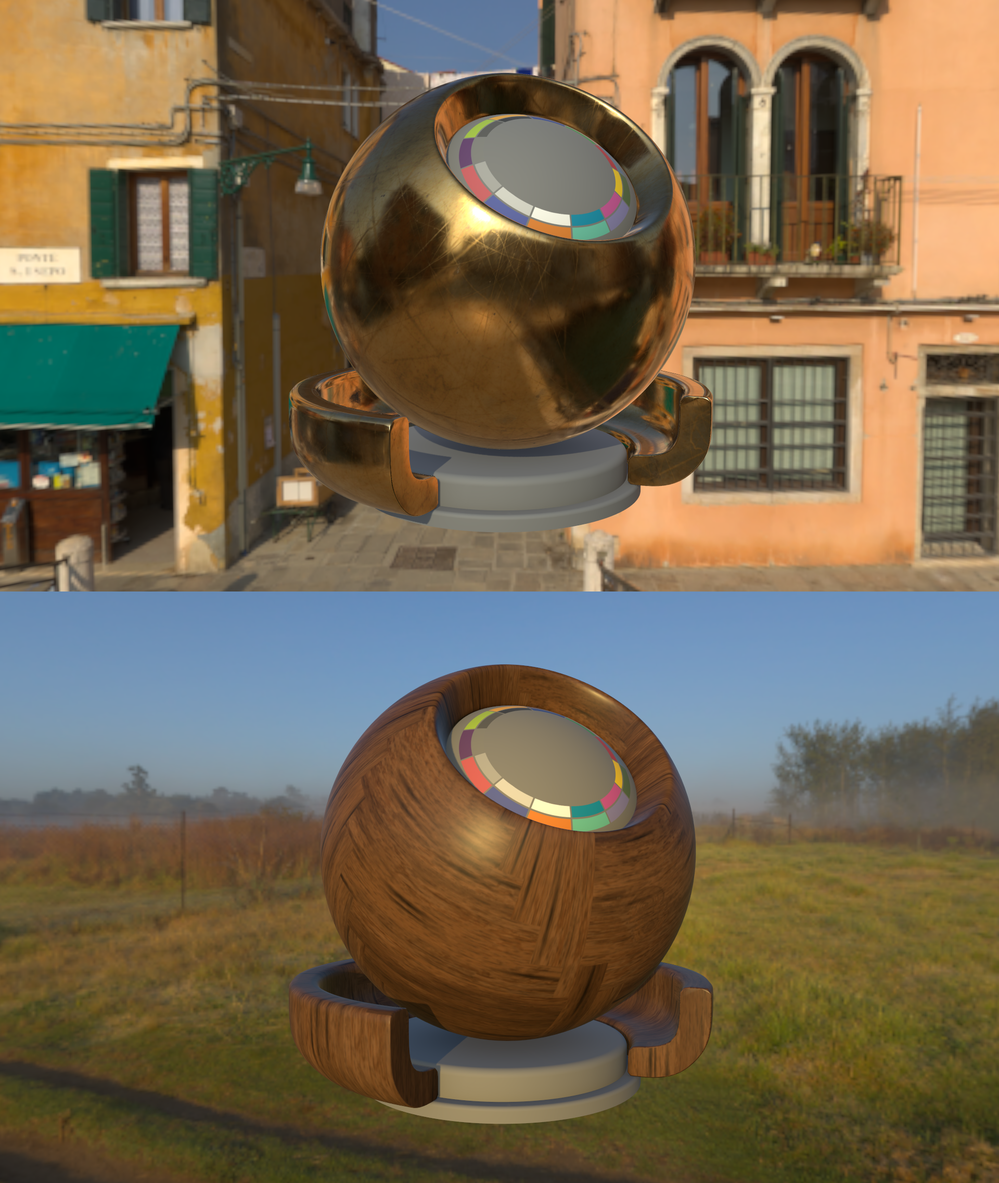
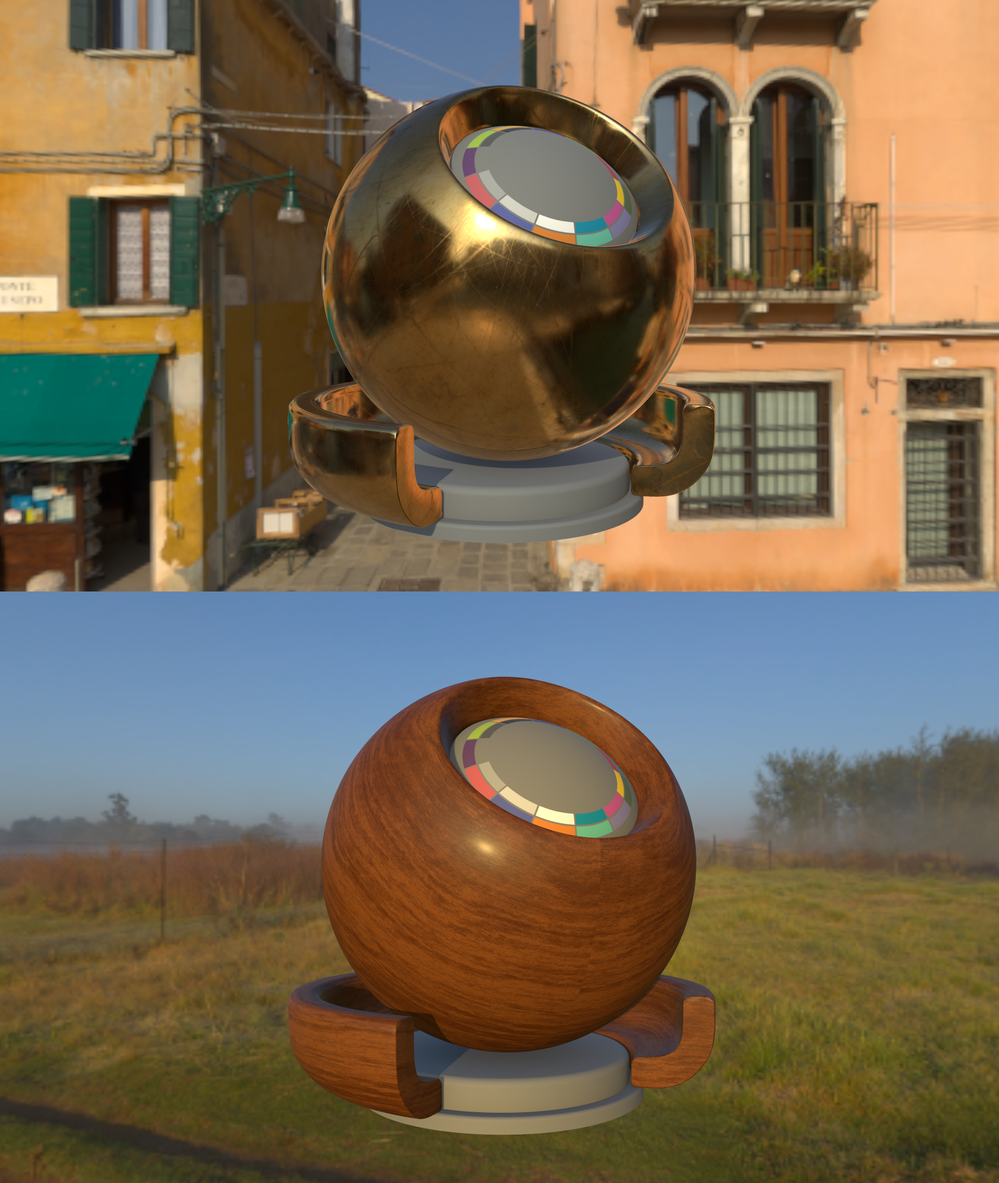
Update tiled wood example
This changelist updates the tiled wood example material, replacing its tiled textures and assigning specular anisotropy and clearcoat properties.

diff --git a/source/MaterialXView/Viewer.cpp b/source/MaterialXView/Viewer.cpp
@@ -164,6 +164,7 @@ Viewer::Viewer(const std::string& materialFilename,
     _viewAngle(45.0f),
     _nearDist(0.05f),
     _farDist(5000.0f),
+    _cameraYaw(0.0f),
     _modelZoom(1.0f),
     _userZoom(1.0f),
     _userTranslationActive(false),
@@ -1625,20 +1626,21 @@ void Viewer::updateViewHandlers()
     float fH = std::tan(_viewAngle / 360.0f * PI) * _nearDist;
     float fW = fH * (float) mSize.x() / (float) mSize.y();
 
+    mx::Matrix44 cameraYaw = mx::Matrix44::createRotationY(_cameraYaw / 360.0f * PI);
     ng::Matrix4f ngArcball = _arcball.matrix();
     mx::Matrix44 arcball = mx::Matrix44(ngArcball.data(), ngArcball.data() + ngArcball.size());
 
-    _cameraViewHandler->worldMatrix = mx::Matrix44::createTranslation(_modelTranslation + _userTranslation);
-    _cameraViewHandler->worldMatrix *= mx::Matrix44::createScale(mx::Vector3(_modelZoom * _userZoom));
-    _cameraViewHandler->viewMatrix = arcball * mx::ViewHandler::createViewMatrix(_eye, _center, _up);
+    _cameraViewHandler->worldMatrix = mx::Matrix44::createTranslation(_modelTranslation + _userTranslation) *
+                                      mx::Matrix44::createScale(mx::Vector3(_modelZoom * _userZoom));
+    _cameraViewHandler->viewMatrix = cameraYaw * arcball * mx::ViewHandler::createViewMatrix(_eye, _center, _up);
     _cameraViewHandler->projectionMatrix = mx::ViewHandler::createPerspectiveMatrix(-fW, fW, -fH, fH, _nearDist, _farDist);
 
     mx::NodePtr dirLight = _lightHandler->getFirstLightOfCategory(DIR_LIGHT_NODE_CATEGORY);
     if (dirLight)
     {
         const float r = MODEL_SPHERE_RADIUS;
-        _shadowViewHandler->worldMatrix = mx::Matrix44::createTranslation(_modelTranslation);
-        _shadowViewHandler->worldMatrix *= mx::Matrix44::createScale(mx::Vector3(_modelZoom));
+        _shadowViewHandler->worldMatrix = mx::Matrix44::createTranslation(_modelTranslation) *
+                                          mx::Matrix44::createScale(mx::Vector3(_modelZoom));
         _shadowViewHandler->projectionMatrix = mx::ViewHandler::createOrthographicMatrix(-r, r, -r, r, 0.0f, r * 2.0f);
         mx::ValuePtr dir = dirLight->getInputValue("direction");
         if (dir->isA<mx::Vector3>())

diff --git a/source/MaterialXView/Viewer.h b/source/MaterialXView/Viewer.h
@@ -138,6 +138,7 @@ class Viewer : public ng::Screen
     float _viewAngle;
     float _nearDist;
     float _farDist;
+    float _cameraYaw;
 
     float _modelZoom;
     mx::Vector3 _modelTranslation;
